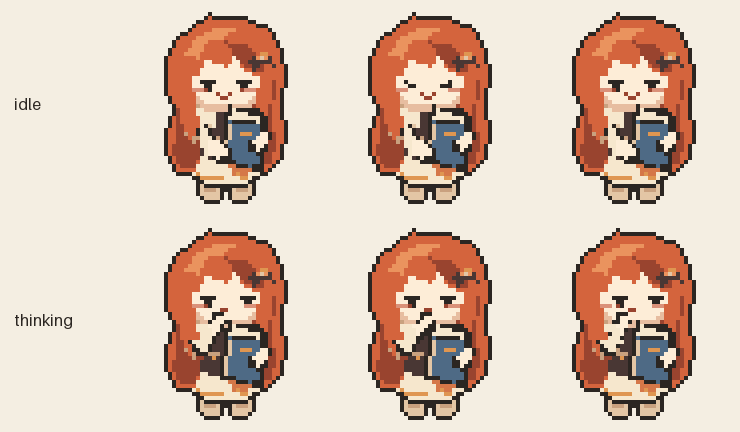
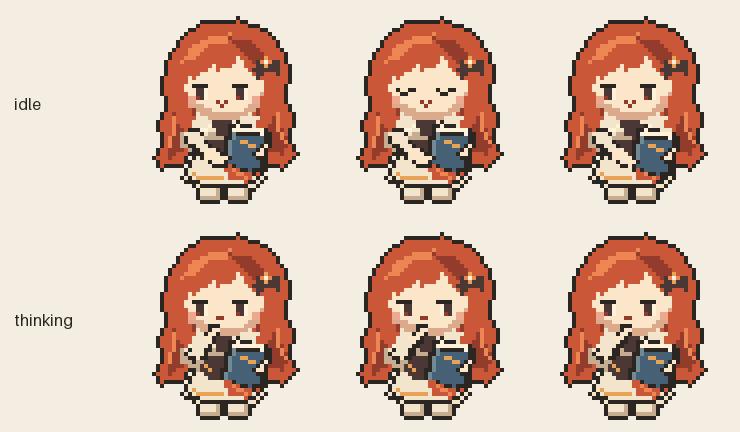
Redraw the heroine with clearer hair, book, and dress silhouettes

diff --git a/docs/STATUS.md b/docs/STATUS.md
@@ -57,5 +57,5 @@
 ## C7 宠物预览
 
 - 肉包方向已确认。已清理闲坐与思考的轮廓及杂点，补完五个必做状态，并提交睡醒、左右轻戳、挠痒、拎起、走路和整理帽子的预览。等主人确认总预览后，用 `tools/make_pet_pack.py` 放进 `App/Pets/roubao/`，署名「lllhr94」、授权「仅限 Clio 使用」，再跑一次 `shots=false` 的编译。
-- 红发少女的旧缩图改为直接在 48×48 像素格绘制，补回抱书、黑色束腰和铜橘裙片，并与肉包对齐眼位、人物比例和描边。先看闲坐、思考两组。
+- 红发少女的旧缩图改为直接在 48×48 像素格绘制，补回抱书、黑色束腰和铜橘裙片，重新拉开脸、书、裙摆和长发的轮廓。先看闲坐、思考两组。
 - C9 引导图和 C5 头像接入等首只宠物定稿。
